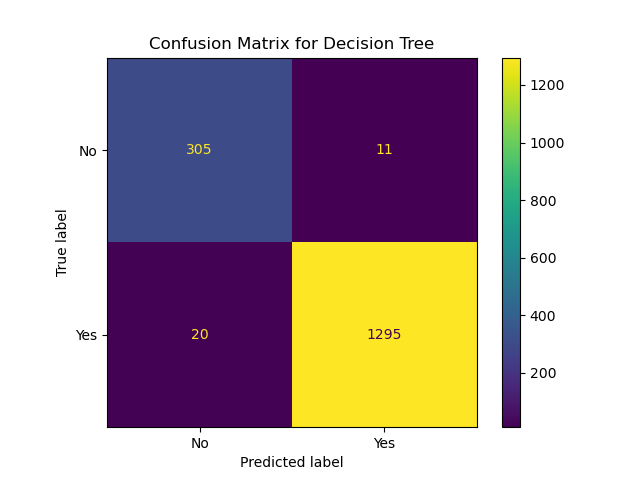
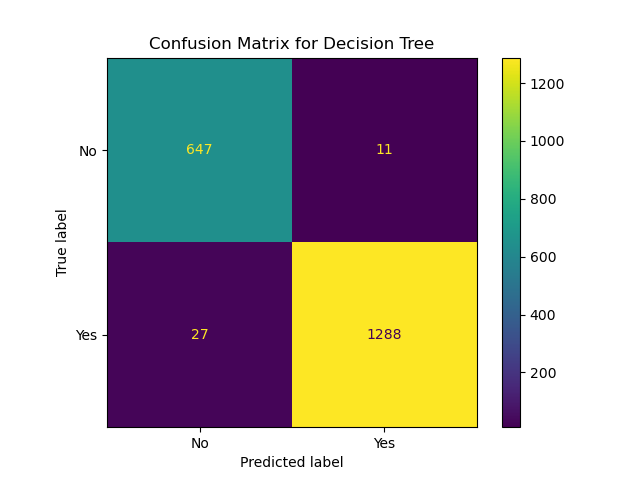
Add oversampling option in all algorithms

diff --git a/models/decision_tree.py b/models/decision_tree.py
@@ -5,7 +5,7 @@ from sklearn.model_selection import GridSearchCV
 from sklearn.metrics import classification_report
 from sklearn.metrics import plot_confusion_matrix
 
-def decision_tree():
+def decision_tree(sampling):
     print("="*60)
     print("\nRunning Decision Tree...")
     DATA_FILE = utils.get_data_directory()
@@ -18,7 +18,13 @@ def decision_tree():
 
     clf = GridSearchCV(DecisionTreeClassifier(), param_grid=param_grid)
 
-    X, y = preprocess.preprocess_data(DATA_FILE)
+    # The argument of the function will determine weather we use oversampling or not
+    if(sampling):
+        process_method = preprocess.oversample(DATA_FILE)
+    else:
+        process_method = preprocess.preprocess_data(DATA_FILE)
+
+    X, y = process_method
     X_train, X_test, y_train, y_test = utils.split_data(X, y, 0.7)
 
     model = clf.fit(X_train, y_train)
@@ -37,6 +43,3 @@ def decision_tree():
     print(f'\t\u2022 {features[top_feature_importances[2][0]]} with a mean importance of {round(top_feature_importances[2][1], 4)}') 
 
     utils.generate_report("DecisionTree", "Decision Tree", model, X_test, y_test, report_dict)
-
-if __name__ == "__main__":
-    decision_tree()

diff --git a/models/naive_bayes.py b/models/naive_bayes.py
@@ -8,12 +8,18 @@ from sklearn.metrics import plot_confusion_matrix
 
 clf = GaussianNB()
 
-def naive_bayes():
+def naive_bayes(sampling):
     print("Running Gaussian Naive Bayes...")
     DATA_FILE = utils.get_data_directory()
 
-    X, y = preprocess.preprocess_data(DATA_FILE)
-    X_train, X_test, y_train, y_test = utils.split_data(X, y, 0.7)
+    # The argument of the function will determine weather we use oversampling or not
+    if(sampling):
+        process_method = preprocess.oversample(DATA_FILE)
+    else:
+        process_method = preprocess.preprocess_data(DATA_FILE)
+
+    X, y = process_method
+    X_train, X_test, y_train, y_test = utils.split_data(X, y, 0.8)
 
     model = clf.fit(X_train, y_train)
     report_dict = classification_report(y_test, model.predict(X_test), output_dict = True, target_names=["No", "Yes"])

diff --git a/models/preprocess.py b/models/preprocess.py
@@ -1,6 +1,18 @@
 import numpy as np
 import pandas as pd
 import os
+from imblearn.over_sampling import RandomOverSampler
+from collections import Counter
+
+def oversample(filename):
+    '''
+    The following function will oversample the data (duplicate the minority) to tackle our imbalance problem.
+    '''
+    X, y = preprocess_data(filename)
+    oversample = RandomOverSampler(sampling_strategy=0.5)
+    X_over, y_over = oversample.fit_resample(X, y)
+    print('Oversampled dataset shape %s' % Counter(y_over))
+    return X_over, y_over
 
 def load_data(filename):
     '''
@@ -22,6 +34,7 @@ def preprocess_data(filename):
 
     X = convert(sanitized_data[:, :-1])
     y = convert(sanitized_data[:, -1])
+    print('Original dataset shape %s' % Counter(y))
     return X, y
 
 def convert(data):

diff --git a/run.py b/run.py
@@ -7,5 +7,5 @@ if __name__ == "__main__":
         shutil.rmtree("results")
     os.makedirs("results")
 
-    gnb.naive_bayes()
-    dt.decision_tree()
+    gnb.naive_bayes(False)
+    dt.decision_tree(True)
